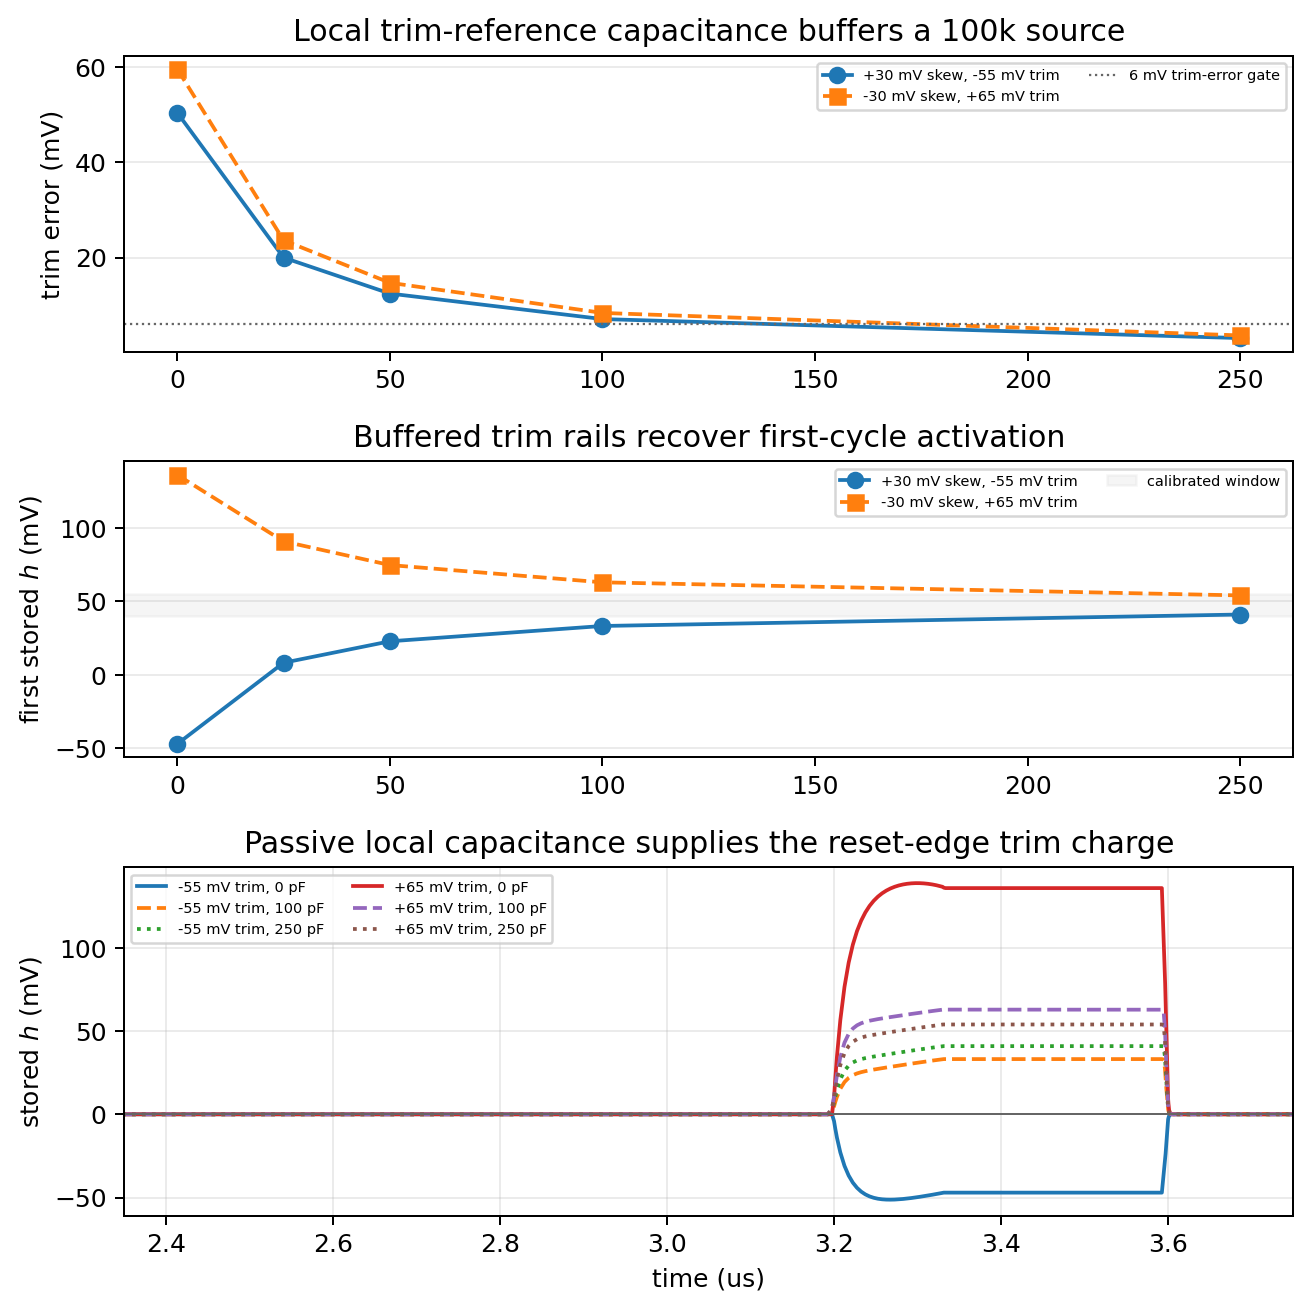
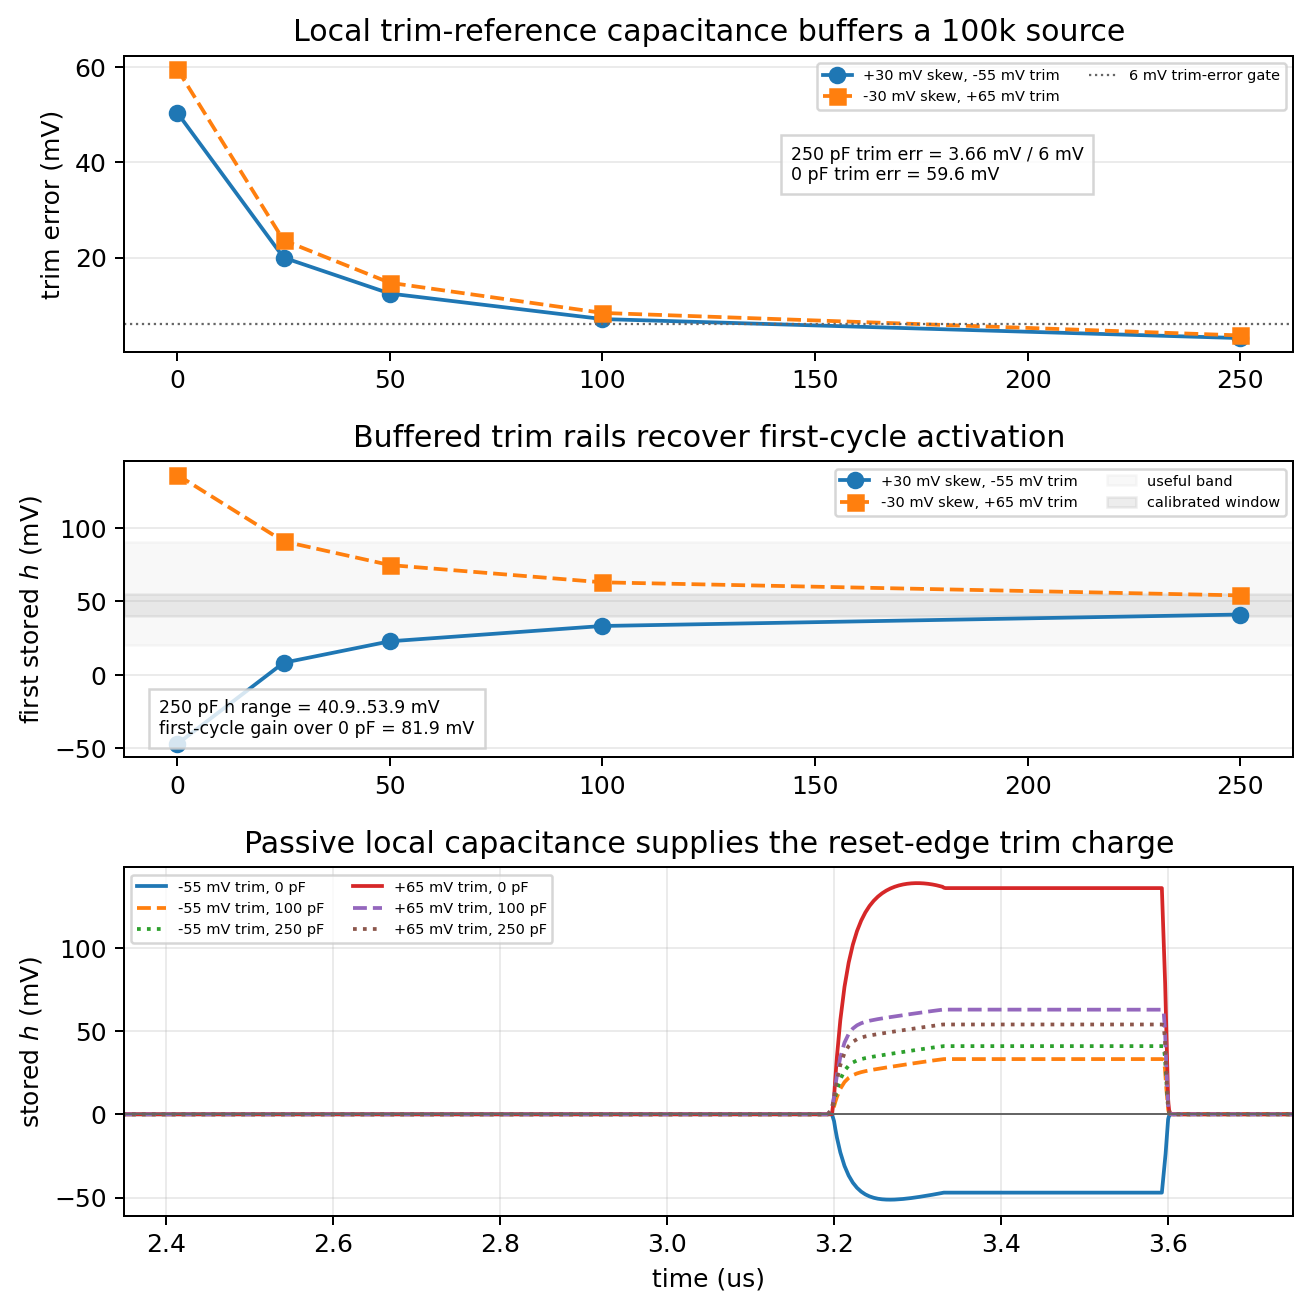
Annotate reset reference decoupling margins

Changed region(s): [[0.122, 0.5195, 0.3661, 0.5806], [0.5797, 0.0917, 0.8238, 0.1528], [0.8543, 0.3667, 0.9764, 0.3972]]

diff --git a/spice/run_mos_cell_characterization.py b/spice/run_mos_cell_characterization.py
@@ -14818,6 +14818,17 @@ quit
     shift_refz_decap_axes[0].set_ylabel("trim error (mV)")
     shift_refz_decap_axes[0].set_title("Local trim-reference capacitance buffers a 100k source")
     shift_refz_decap_axes[0].grid(True, axis="y", alpha=0.25)
+    shift_refz_decap_axes[0].text(
+        0.57,
+        0.58,
+        "250 pF trim err = "
+        f"{1e3 * np.max(shift_refz_decap_trim_error[:, -1]):.2f} mV / 6 mV\n"
+        "0 pF trim err = "
+        f"{1e3 * np.max(shift_refz_decap_trim_error[:, 0]):.1f} mV",
+        transform=shift_refz_decap_axes[0].transAxes,
+        fontsize="x-small",
+        bbox={"facecolor": "white", "alpha": 0.82, "edgecolor": "0.8"},
+    )
     shift_refz_decap_axes[0].legend(loc="upper right", ncol=2, fontsize="xx-small")
     for branch_idx, (_branch_name, branch_label, _nfp, _nfm, _trim) in enumerate(shift_reset_branch_specs):
         marker = "o-" if branch_idx == 0 else "s--"
@@ -14827,10 +14838,23 @@ quit
             marker,
             label=branch_label,
         )
-    shift_refz_decap_axes[1].axhspan(40, 55, color="0.7", alpha=0.12, label="calibrated window")
+    shift_refz_decap_axes[1].axhspan(20, 90, color="0.75", alpha=0.10, label="useful band")
+    shift_refz_decap_axes[1].axhspan(40, 55, color="0.45", alpha=0.12, label="calibrated window")
     shift_refz_decap_axes[1].set_ylabel("first stored $h$ (mV)")
     shift_refz_decap_axes[1].set_title("Buffered trim rails recover first-cycle activation")
     shift_refz_decap_axes[1].grid(True, axis="y", alpha=0.25)
+    shift_refz_decap_axes[1].text(
+        0.03,
+        0.08,
+        "250 pF h range = "
+        f"{1e3 * np.min(shift_refz_decap_h_sample[:, -1]):.1f}.."
+        f"{1e3 * np.max(shift_refz_decap_h_sample[:, -1]):.1f} mV\n"
+        "first-cycle gain over 0 pF = "
+        f"{1e3 * np.min(np.abs(shift_refz_decap_h_sample[:, -1] - shift_refz_decap_h_sample[:, 0])):.1f} mV",
+        transform=shift_refz_decap_axes[1].transAxes,
+        fontsize="x-small",
+        bbox={"facecolor": "white", "alpha": 0.82, "edgecolor": "0.8"},
+    )
     shift_refz_decap_axes[1].legend(loc="upper right", ncol=2, fontsize="xx-small")
     for branch_label, cap_label, dct, store in shift_refz_decap_traces:
         linestyle = "-" if cap_label == "0 pF" else "--" if cap_label == "100 pF" else ":"

diff --git a/engineering_log.md b/engineering_log.md
@@ -2,6 +2,17 @@
 
 ## 2026-05-25
 
+- Family-completed the shifted-gate reset-reference decoupling plot.  The
+  ngspice deck models the first reset from a \(100\)k trim source with local
+  reservoir capacitance and already asserted monotonic trim-error improvement,
+  \(250\) pF trim delivery below \(6\) mV error, useful first-cycle activation,
+  and more than \(60\) mV first-cycle activation recovery versus no local
+  reservoir.  The regenerated
+  `mos_hidden_writer_restored_gate_hybrid_update_forward_guard_forward_pair_96u_shifted_gate_reset_ref_decap_ngspice`
+  plot now labels the measured evidence: \(250\) pF trim error \(3.66\) mV
+  versus the \(6\) mV gate, no-reservoir trim error \(59.6\) mV, \(250\) pF
+  first stored activation range \(40.9\)--\(53.9\) mV, and first-cycle gain
+  over no reservoir \(81.9\) mV.
 - Clarified the shifted-gate reset-reference recharge plot.  The ngspice deck
   models a \(100\)k reset-trim source feeding local reservoir capacitors and
   already asserted that \(250\) pF keeps repeated trim error below \(6\) mV,
